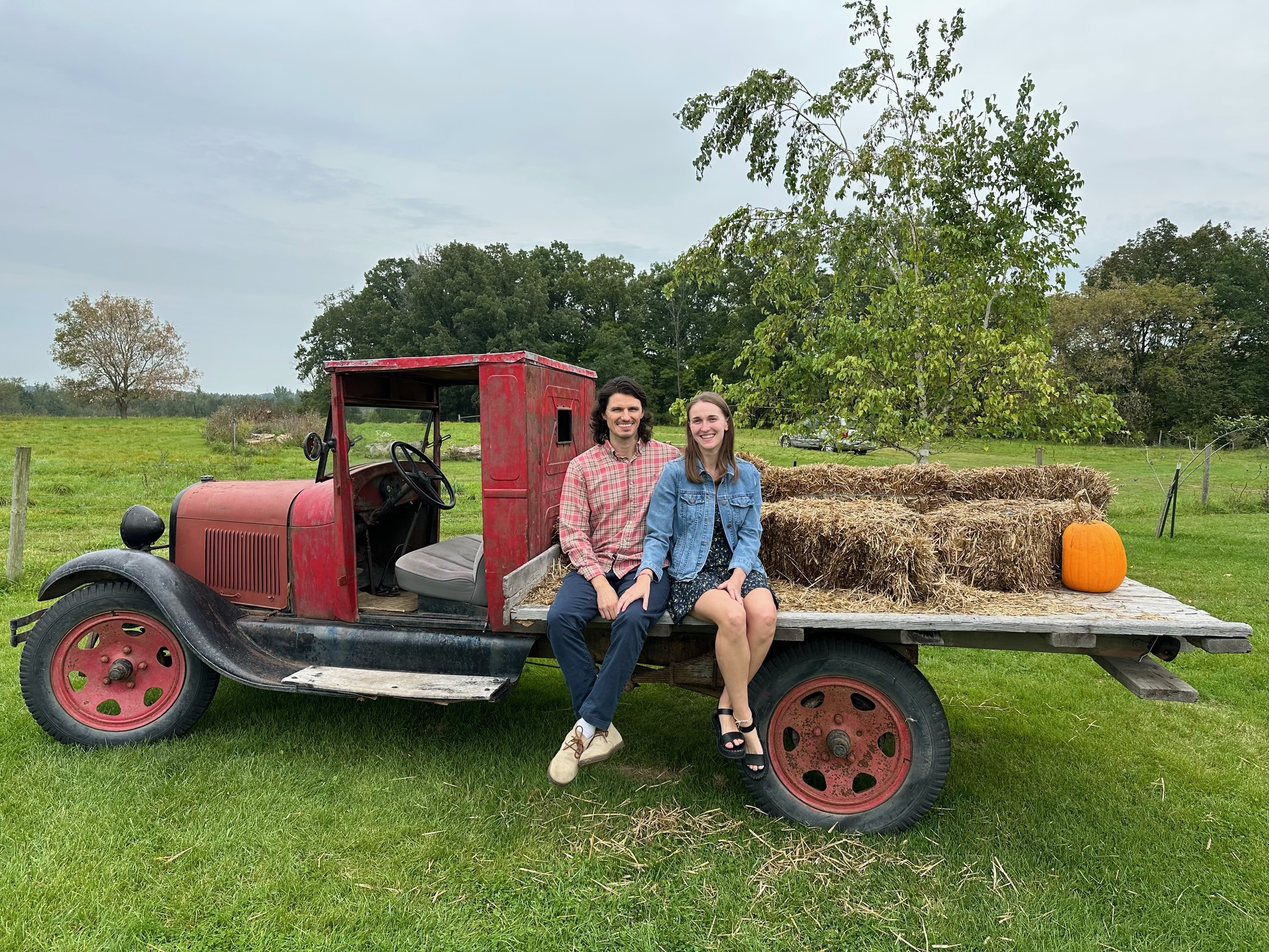
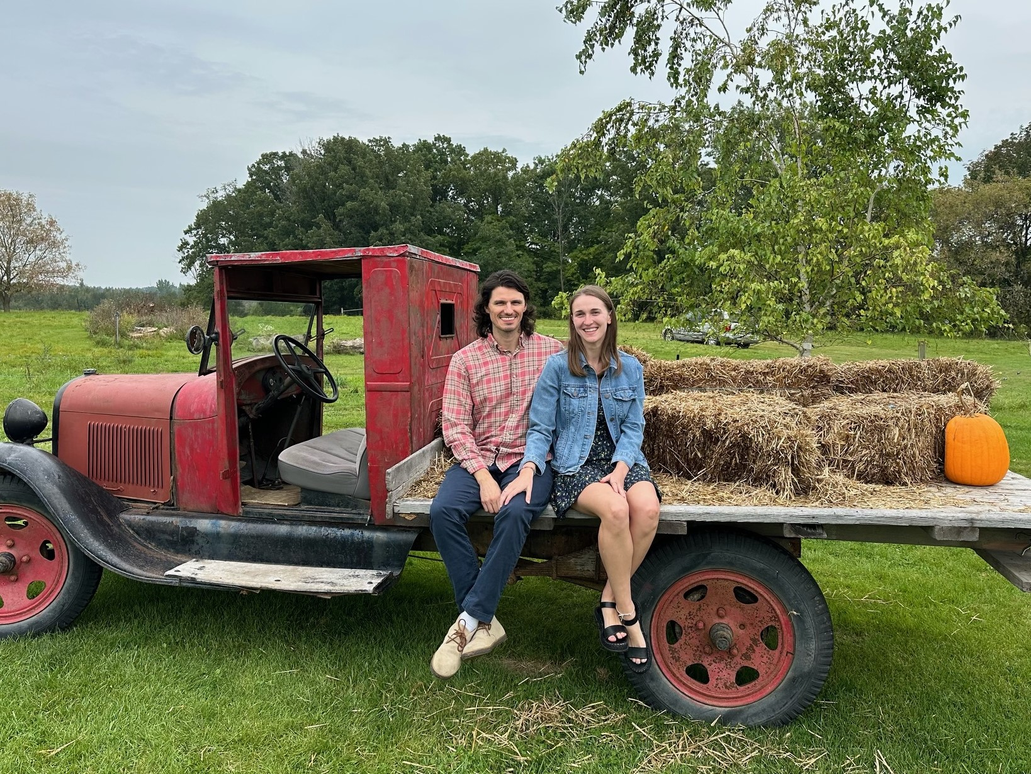
update photo

diff --git a/website.html b/website.html
@@ -569,7 +569,7 @@
               <h2 class="sidebar-table-h2">Tom's Details</h2>
             </caption>
   
-            <img src="images/imageee.jpeg" height="315" width="420" zoom="125%">
+            <img src="images/image3_1.jpeg" height="315" width="420">
   
           </table>
         </section>
